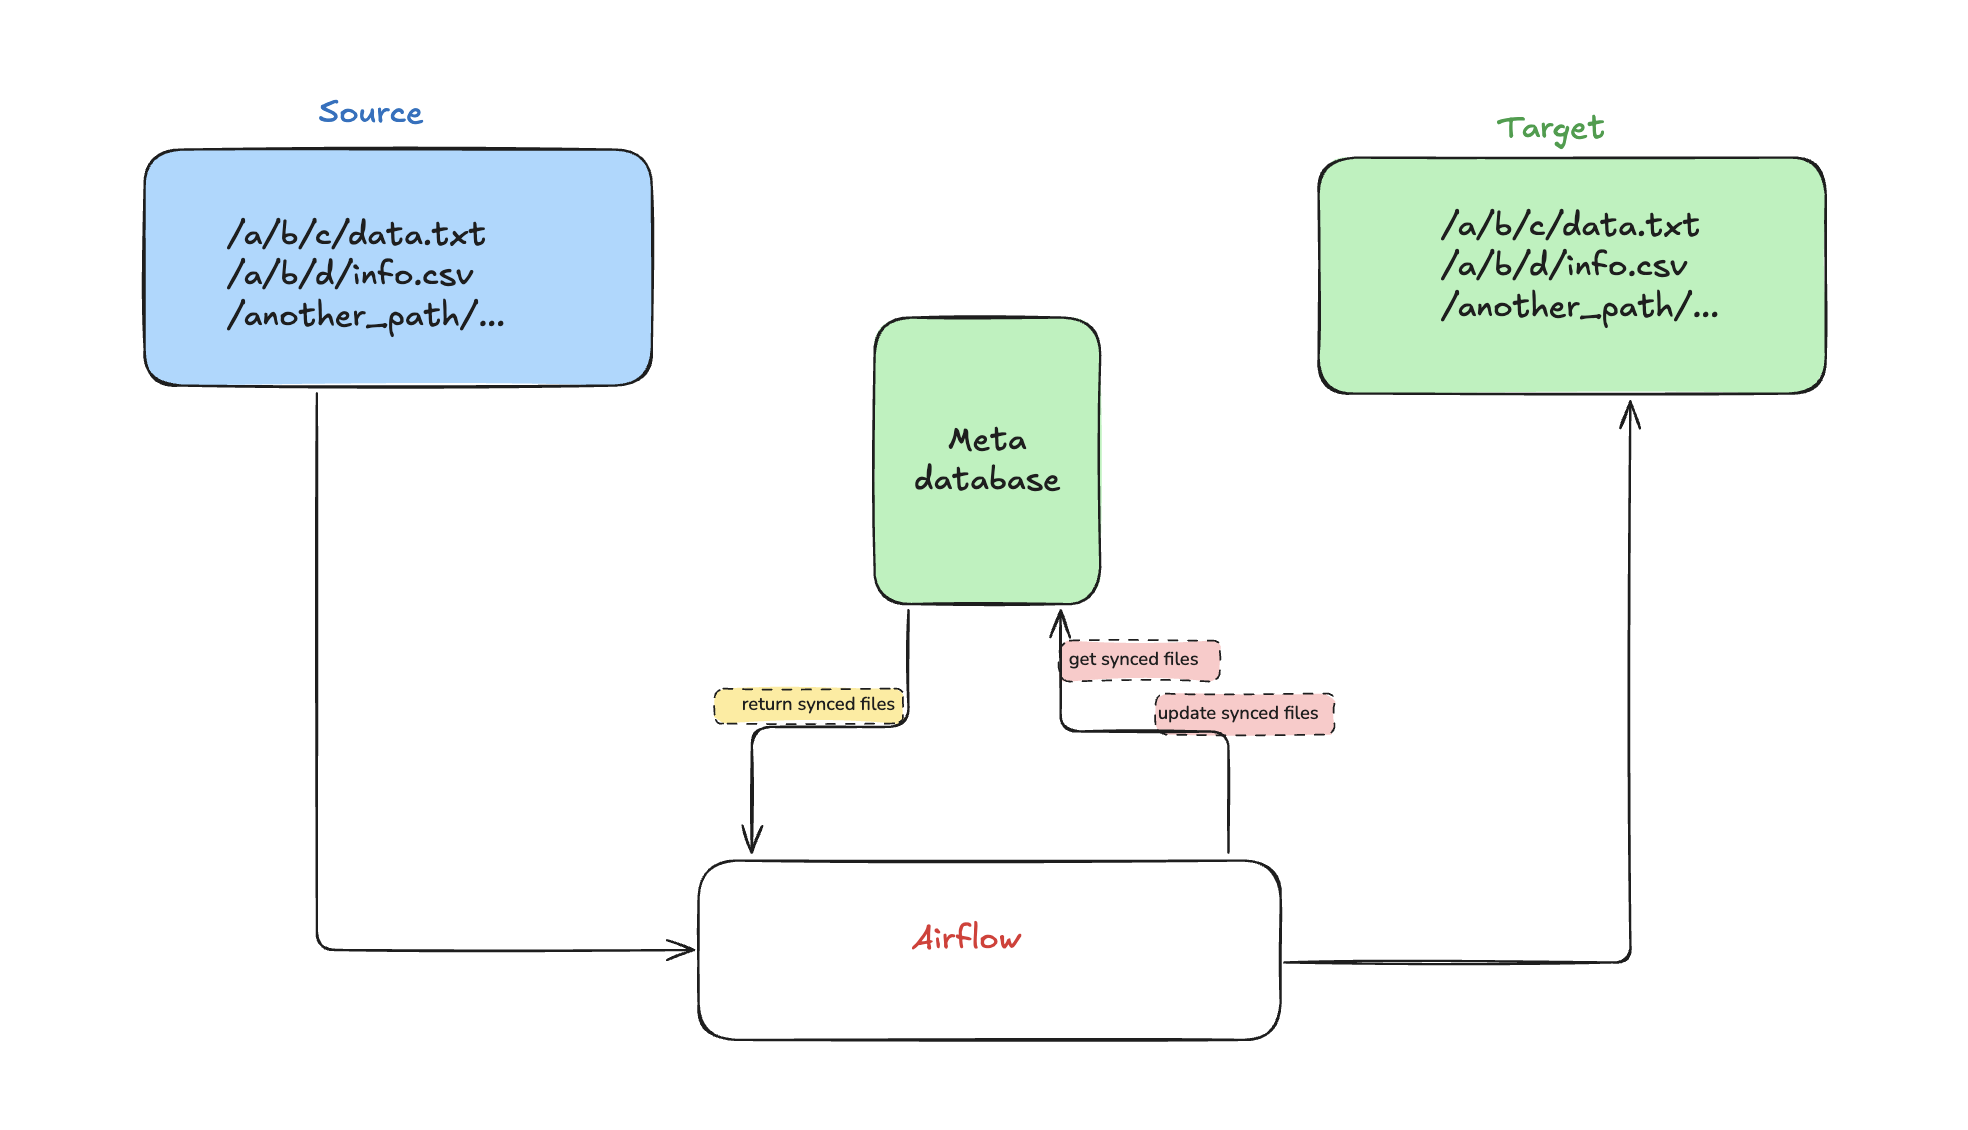
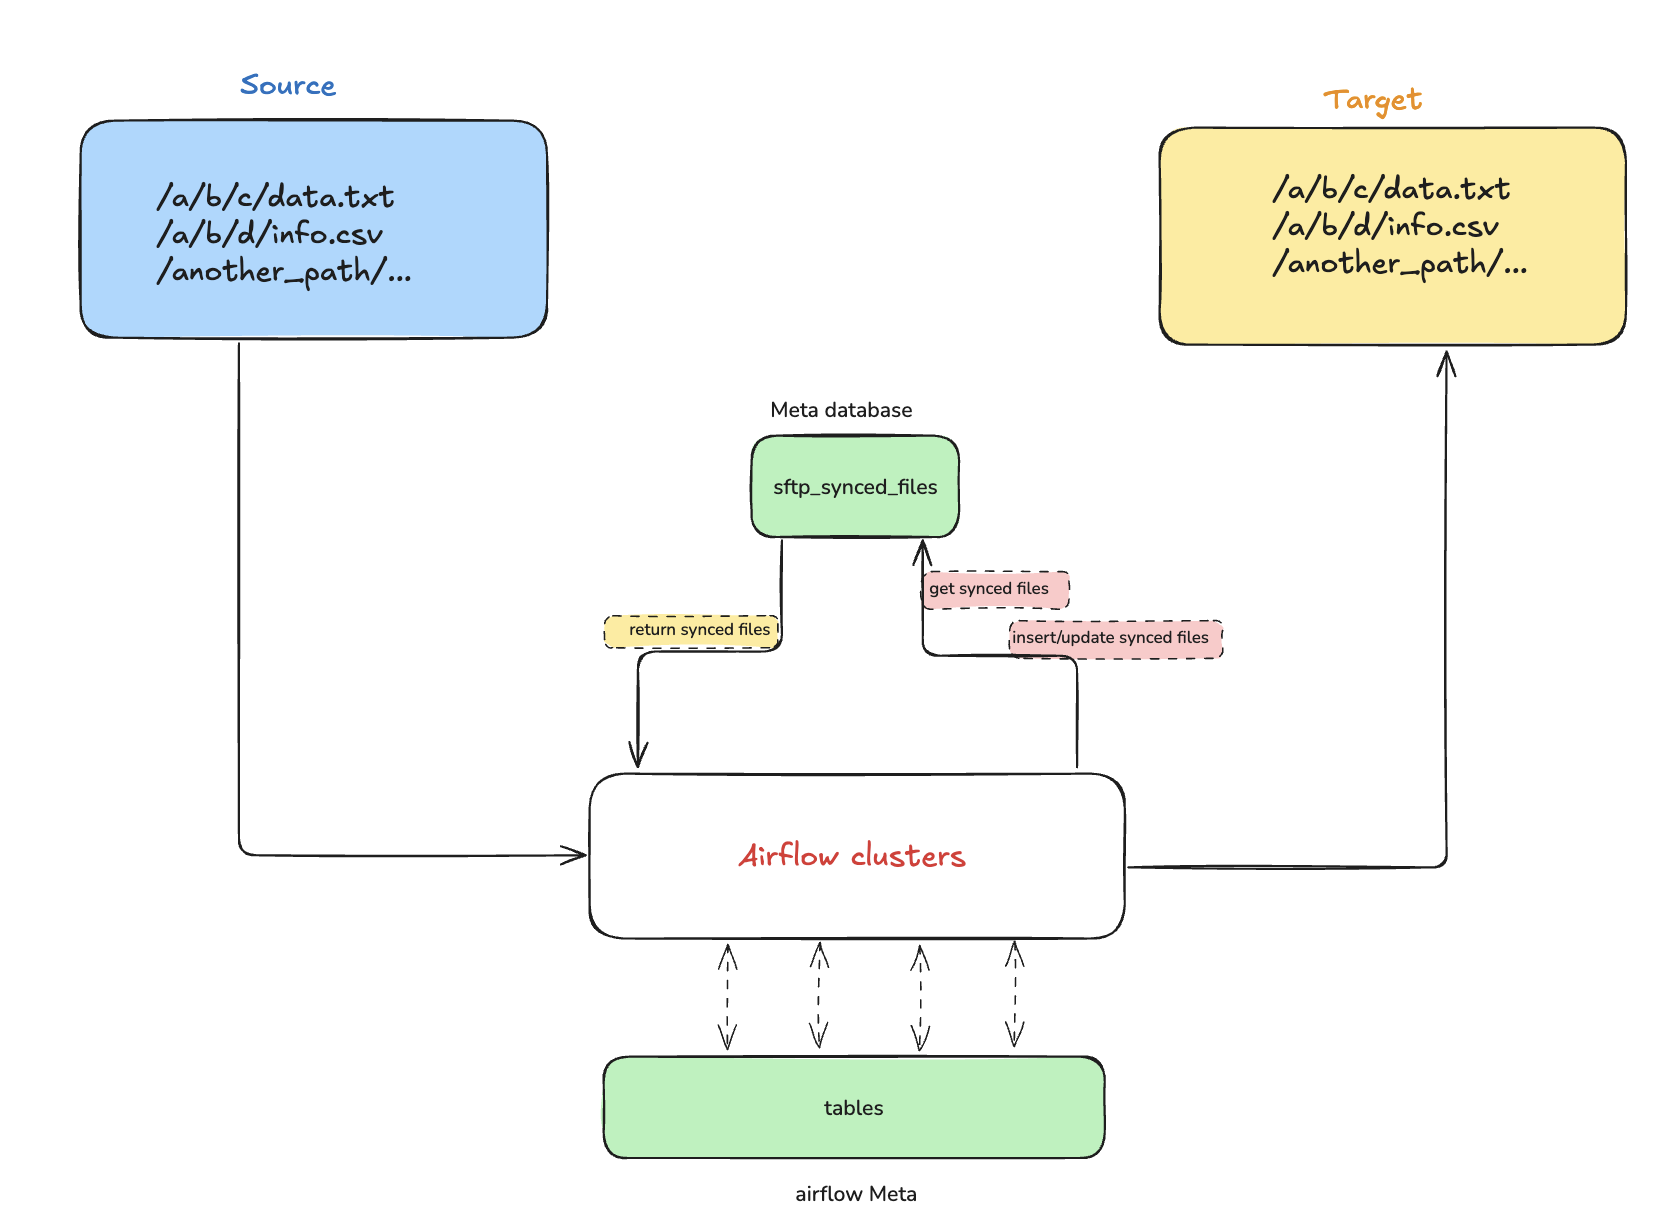
add Detailed Runbook and Explaination

diff --git a/dags/dag_sftp_transfer_files.py b/dags/dag_sftp_transfer_files.py
@@ -5,13 +5,13 @@ from operators.sftp_sync_operator import SFTPSyncOperator
 from common.transform.basic_transform import AddDotTransform
 
 with DAG(
-    dag_id="sftp_data_file_sync",
+    dag_id="sftp_data_file_transfer",
     start_date=datetime(2026, 1, 1),
     schedule="@daily",
     catchup=False
 ) as dag:
     sync_task = SFTPSyncOperator(
-        task_id="sync_sftp_files",
+        task_id="transfer_files",
         source_hook=SFTPHook(ssh_conn_id="sftp_source"),
         target_hook=SFTPHook(ssh_conn_id="sftp_target"),
         source_path="/",

diff --git a/README.md b/README.md
@@ -25,47 +25,161 @@ Examples:
     - Any additional plugins required for the project.
 
 ## Approach:
-Follow the [link](https://airflow.apache.org/docs/apache-airflow/stable/howto/docker-compose/index.html#fetching-docker-compose-yaml) to set up Airflow in Docker.
-
-Based on the problem requirements, we want to create a process to transfer files between SFTP servers.
-
 ### Main requirements:
+- Based on the problem requirements, we want to create a process to transfer files between SFTP servers.
 - Data must be transferred incrementally from source to destination.
-
 - Because "**Deleted files** on the SFTP server at <source> **must remain** on the <destination> server." Therefore, I assume there are no instances of overwriting the file at the source, for example, file_1.txt is deleted, then a content file with the same name file_1.txt is created. File_1.txt at the destination will not be changed.
 
 ### Solutions:
 
 ![Data flow](images/flow.png)
 
-- Lookup source path, find files.
-- Keep track the synced file to target.
-- Compare source files with synced files to find the new files.
+#### Design Decisions
+1. Create Metadata Database. A dedicated metadata database is used instead of Airflow Variables or XComs to:
+- Avoid scheduler overload
+- Supports large-scale file tracking in the future, when the number of files may be very large.
+- Enable cross-DAG reuse in the future
 
-### Enhancement:
-- CheckSum, Transfer with Chunk Size, Retry on Error.
-- Add CustomOperator.
-- Store the synced file to Metadata Database with new tables, no need to store synced file in Airflow Variable.
+2. Storage Adapter Abstraction
+- Hooks are converted into storage adapters at runtime.
+- This decouples DAGs and operators from specific storage technologies (SFTP servers, GCS, S3,...)
 
-### My observations:
-This operator supports optional transformations during file sync.
+3. Resume-on-Failure.
+- Partial files (.part) are used to support resumable transfers.
 
-However, transformations are **not recommended** for production use cases.
+4. Optional Transformations
+- Transformations are supported but discouraged for complex use cases.
 
-For complex or large-scale transformations, use a dedicated data pipeline
-after synchronizing raw files.
+#### Transformation Policy
 
-In real-world data platforms, transformations should be handled as a separate processing stage, for example:
-1. Read data from the source system
-2. Transform data using a dedicated processing engine
-3. Write transformed output to the target system
+Although transformations are technically supported, they are not recommended for production-grade processing.
+For complex or computationally expensive transformations, a separate data pipeline should be used:
+1. Sync raw files.
+2. Transform in a dedicated processing job. E.g: transformations can be processed in Hadoop cluster, Spark cluster, Glue,...
+3. Write outputs to destination storage.
 
-Typical tools for such pipelines include:
-- Apache Spark
-- Apache Flink
+> Synchronization and transformation serve different purposes and should be handled in different layers.
 
-This separation ensures:
-- Clear responsibility boundaries
-- Easier observability and debugging
-- Correct checksum and data integrity guarantees
-- Better scalability for complex transformations
+My opinion may be right or wrong depending on the specific circumstances. 😊
+
+#### Extensibility
+
+To add a new storage system (e.g. S3):
+1. Implement a new StorageAdapter
+2. Register it using @register_adapter(HookClass)
+3. Use the corresponding Hook in the DAG
+
+
+### Runbook:
+
+1. First setup airflow cluster
+```
+make setup_airflow_cluster
+```
+
+2. Add Meta Database to Postgres database
+```
+make add_meta_database
+```
+
+3. Create Airflow Connections
+```
+make setup_airflow_connections
+```
+Please wait a moment for the Airflow Dag processing to complete.
+
+4. Simulate create data files to source SFTP
+```
+mkdir -p data/source/a/b/c && echo "abc" > data/source/a/b/c/file_1.txt
+```
+We can run below scripts to check list on SFTP **source** server
+```
+make sftp_check_files SFTP_CONTAINER="sftp_source"
+```
+The output of source -> 
+```
+docker exec -it sftp_source ls -Rtl /home/sftpuser/
+/home/sftpuser/:
+total 0
+drwxr-xr-x 3 root root 96 Jan  2 03:46 a
+
+/home/sftpuser/a:
+total 0
+drwxr-xr-x 3 root root 96 Jan  2 03:46 b
+
+/home/sftpuser/a/b:
+total 0
+drwxr-xr-x 3 root root 96 Jan  2 03:46 c
+
+/home/sftpuser/a/b/c:
+total 4
+-rw-r--r-- 1 root root 4 Jan  2 03:46 file_1.txt
+```
+5. Now we can trigger DAG to verify file transfer.
+
+```
+make airflow_trigger_dag
+```
+> You can go to: http://localhost:8080/dags/sftp_data_file_transfer to check the DAG processing status. User:Password - airflow:airflow
+
+We can run below scripts to check list on SFTP **target** server
+```
+make sftp_check_files SFTP_CONTAINER="sftp_target"
+```
+The output of target-> 
+```
+/home/sftpuser/:
+total 0
+drwxr-xr-x 3 root root 96 Jan  2 03:52 a
+
+/home/sftpuser/a:
+total 0
+drwxr-xr-x 3 root root 96 Jan  2 03:52 b
+
+/home/sftpuser/a/b:
+total 0
+drwxr-xr-x 3 root root 96 Jan  2 03:52 c
+
+/home/sftpuser/a/b/c:
+total 4
+-rw-r--r-- 1 root root 4 Jan  2 03:52 file_1.txt
+```
+
+Now /a/b/c/file_1.txt has been transferred to target. We can add two more files to the SFTP *source* to verify that *2 new files will be transferred to the target* and *modification time of file_1.txt will not be changed.*
+
+```
+mkdir -p data/source/a/b/c && echo "abcdef" > data/source/a/b/c/file_2.txt
+mkdir -p data/source/a/b/c && cat README.md > data/source/a/b/c/file_3.txt
+```
+Trigger DAG again.
+```
+make airflow_trigger_dag
+```
+Wait a few minutes and you can check the DAG processing status. Once the DAG runs successfully, proceed with verification.
+
+```
+make sftp_check_files SFTP_CONTAINER="sftp_target"
+```
+
+```
+docker exec -it sftp_target ls -Rtl /home/sftpuser/
+/home/sftpuser/:
+total 0
+drwxr-xr-x 3 root root 96 Jan  2 03:52 a
+
+/home/sftpuser/a:
+total 0
+drwxr-xr-x 3 root root 96 Jan  2 03:52 b
+
+/home/sftpuser/a/b:
+total 0
+drwxr-xr-x 5 sftpuser users 160 Jan  2 03:59 c
+
+/home/sftpuser/a/b/c:
+total 16
+-rw-r--r-- 1 root root 6555 Jan  2 03:59 file_3.txt
+-rw-r--r-- 1 root root    7 Jan  2 03:59 file_2.txt
+-rw-r--r-- 1 root root    4 Jan  2 03:52 file_1.txt
+```
+As you can see, file_1 has a modified time that doesn't change on the target server.
+
